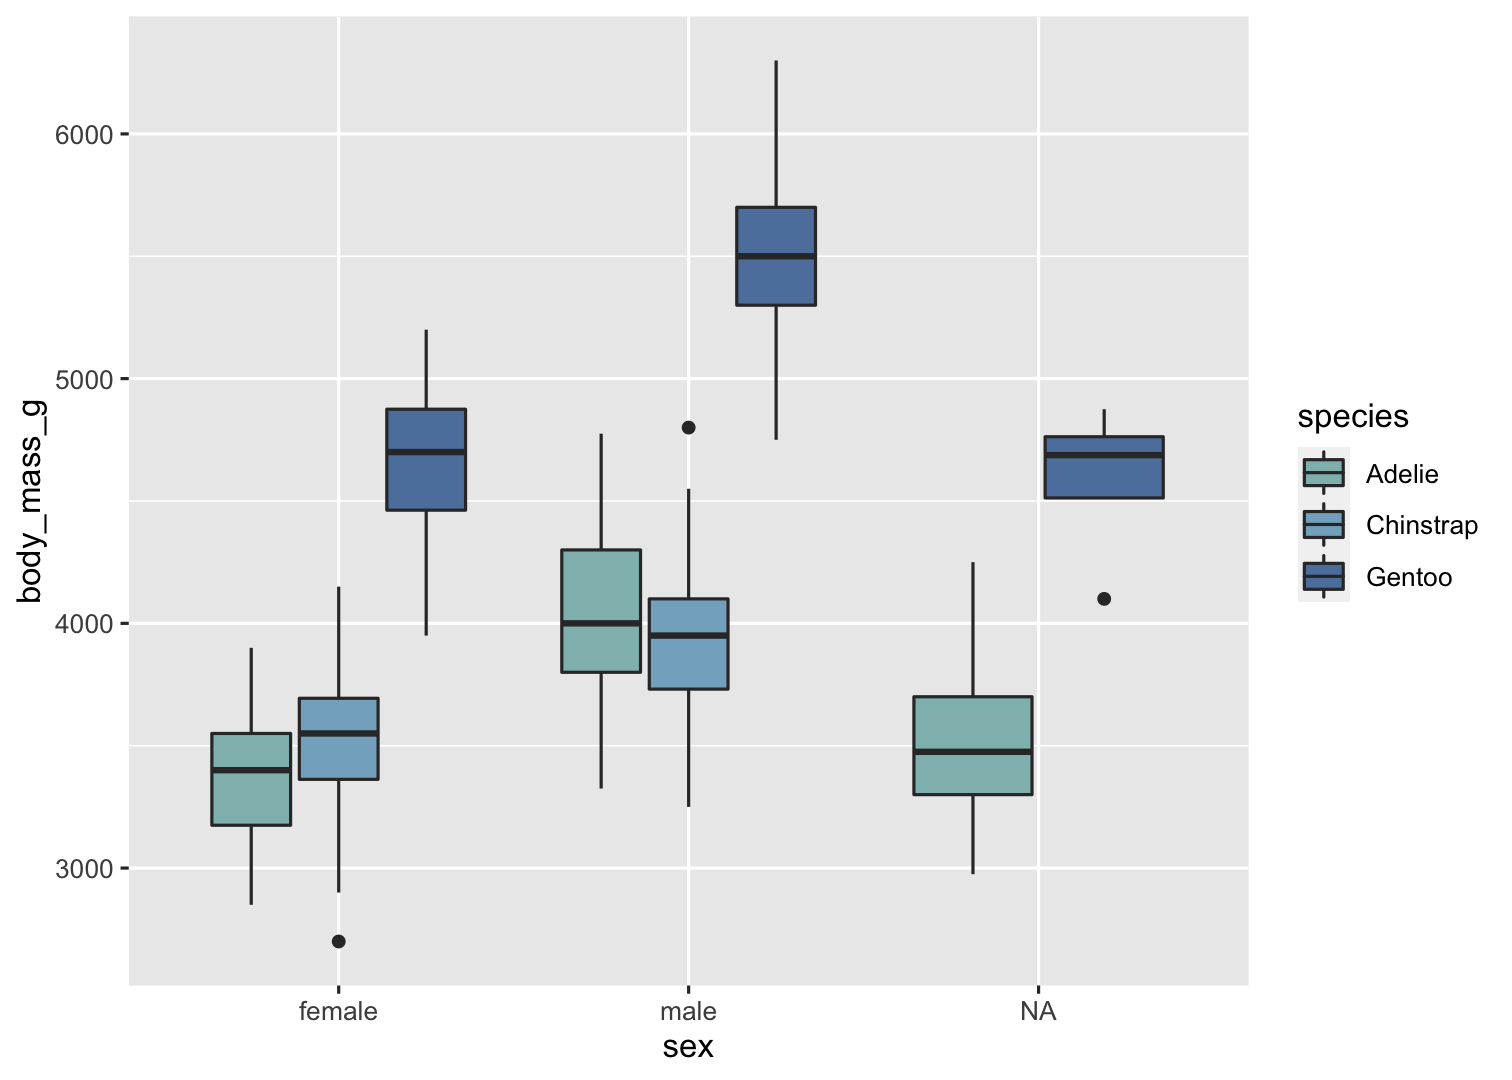
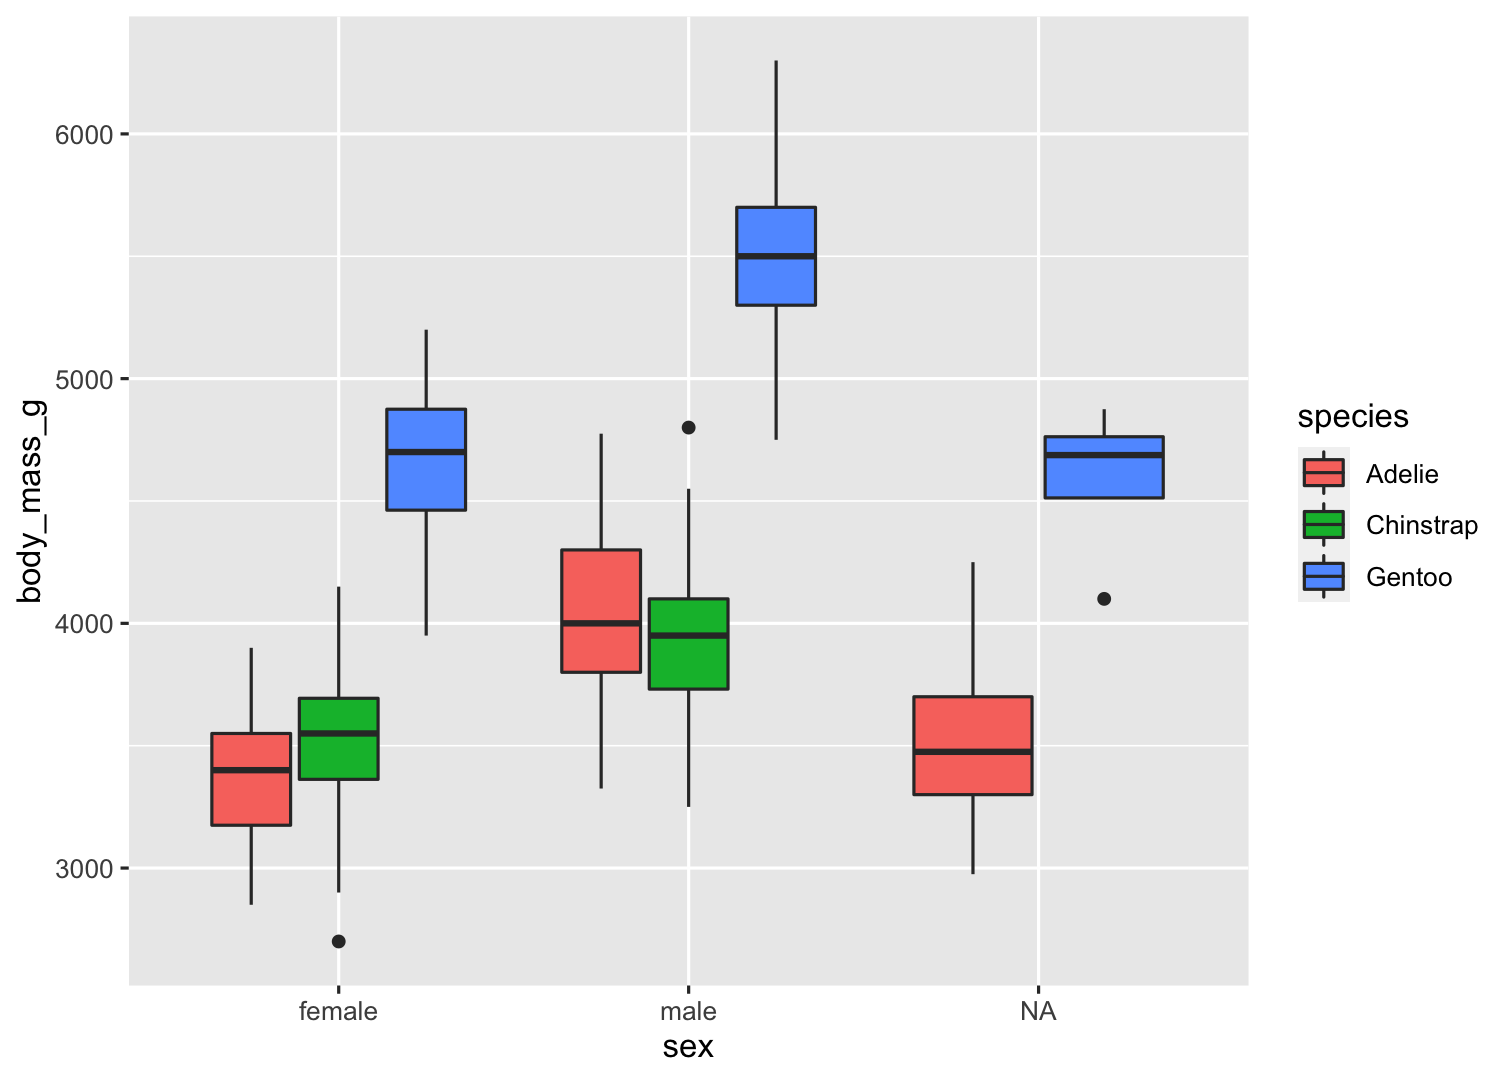
Add slides

diff --git a/slides/tour-of-the-tidyverse.html b/slides/tour-of-the-tidyverse.html
@@ -901,6 +901,13 @@ background-size: 80px
 # forcats: info
 
 .panelset[
+
+.panel[.panel-name[Overview]
+### Helps us work with **categorical variables** or factors. 
+
+### These are variables that have a fixed and known set of possible values, like `species`, `island`, and `sex` in our `penguins` dataset.
+]
+
 .panel[.panel-name[Cheatsheet]
 
 <i class="fas  fa-file-pdf "></i> PDF: https://github.com/rstudio/cheatsheets/raw/master/factors.pdf
@@ -926,22 +933,60 @@ background-size: 80px
 
 .panelset[
 .panel[.panel-name[Code]
+.pull-left[
+### Currently the `year` variable in `penguins` is continuous from 2007 to 2009.
 
+### There may be situations where this isn't what we want and we might want to turn it into a categorical variable instead.
+]
+
+.pull-right[
+
+### The `factor()` function is perfect for this.
 
 ```r
-penguins %&gt;% 
-  dplyr::n_distinct(species)
+penguins %&gt;%
+  mutate(year_factor = factor(year, levels = unique(year)))
 ```
 ]
 
-.panel[.panel-name[Result]
 
+]
+
+.panel[.panel-name[Result]
+### The result is a new factor `year_factor` with levels `2007`, `2008` and `2009`
+.pull-left[
 
 ```r
-penguins %&gt;% 
-  dplyr::n_distinct(species)
-## Error in FUN(X[[i]], ...): object 'species' not found
+penguins_new &lt;-
+  penguins %&gt;%
+  mutate(year_factor = factor(year, levels = unique(year)))
+penguins_new
+## # A tibble: 344 x 9
+##    species island    bill_length_mm bill_depth_mm flipper_length_mm body_mass_g sex     year year_factor
+##    &lt;fct&gt;   &lt;fct&gt;              &lt;dbl&gt;         &lt;dbl&gt;             &lt;int&gt;       &lt;int&gt; &lt;fct&gt;  &lt;int&gt; &lt;fct&gt;      
+##  1 Adelie  Torgersen           39.1          18.7               181        3750 male    2007 2007       
+##  2 Adelie  Torgersen           39.5          17.4               186        3800 female  2007 2007       
+##  3 Adelie  Torgersen           40.3          18                 195        3250 female  2007 2007       
+##  4 Adelie  Torgersen           NA            NA                  NA          NA &lt;NA&gt;    2007 2007       
+##  5 Adelie  Torgersen           36.7          19.3               193        3450 female  2007 2007       
+##  6 Adelie  Torgersen           39.3          20.6               190        3650 male    2007 2007       
+##  7 Adelie  Torgersen           38.9          17.8               181        3625 female  2007 2007       
+##  8 Adelie  Torgersen           39.2          19.6               195        4675 male    2007 2007       
+##  9 Adelie  Torgersen           34.1          18.1               193        3475 &lt;NA&gt;    2007 2007       
+## 10 Adelie  Torgersen           42            20.2               190        4250 &lt;NA&gt;    2007 2007       
+## # … with 334 more rows
 ```
+]
+
+.pull-right[
+
+```r
+class(penguins_new$year_factor)
+## [1] "factor"
+levels(penguins_new$year_factor)
+## [1] "2007" "2008" "2009"
+```
+]
 ]
 ]
 
@@ -1190,6 +1235,13 @@ background-size: 80px
 # purrr: info
 
 .panelset[
+
+.panel[.panel-name[Overview]
+### Provides tools for working with functions and vectors 
+
+### The `map()` family of functions helps us replace for loops, &lt;br/&gt; making our code easier to read and more succint.
+]
+
 .panel[.panel-name[Cheatsheet]
 
 <i class="fas  fa-file-pdf "></i> PDF: https://github.com/rstudio/cheatsheets/raw/master/purrr.pdf
@@ -1230,12 +1282,12 @@ background-size: 80px
 
 .pull-left[
 ### Let's turn this plot
-&lt;img src="tour-of-the-tidyverse_files/figure-html/unnamed-chunk-48-1.png" width="504" /&gt;
+&lt;img src="tour-of-the-tidyverse_files/figure-html/unnamed-chunk-49-1.png" width="504" /&gt;
 ]
 
 .pull-right[
 ### Into this one!
-&lt;img src="tour-of-the-tidyverse_files/figure-html/unnamed-chunk-49-1.png" width="504" /&gt;
+&lt;img src="tour-of-the-tidyverse_files/figure-html/unnamed-chunk-50-1.png" width="504" /&gt;
 
 .panel[.panel-name[Code]
 
@@ -1250,7 +1302,7 @@ library(nord)
 penguins %&gt;%
   ggplot(aes(x = sex, y = body_mass_g)) +
   geom_boxplot(aes(fill = species)) +
-  nord::scale_fill_nord(palette = "frost")
+  scale_fill_manual(values = nord::nord_palettes$frost)
 ```
 ]
 
@@ -1264,11 +1316,14 @@ nord::nord_palettes$frost
 
 
 ```r
-# but you might prefer to use `scale_fill_manual()`
+# but you might prefer to use `scale_fill_manual()` 
+# or more specialized functions like `scale_fill_nord()` 
+# included in the {nord} package
 penguins %&gt;%
   ggplot(aes(x = sex, y = body_mass_g)) +
   geom_boxplot(aes(fill = species)) +
   scale_fill_manual(values = nord::nord_palettes$frost)
+  #scale_fill_nord(palette = "frost")
 ```
 ]
 ]
@@ -1280,12 +1335,13 @@ penguins %&gt;%
 penguins %&gt;%
   ggplot(aes(x = sex, y = body_mass_g)) +
   geom_boxplot(aes(fill = species)) +
-  scale_fill_manual(values = nord::nord_palettes$frost)
+  #scale_fill_manual(values = nord::nord_palettes$frost)
+  scale_fill_nord(palette = "frost")
 ```
 ]
 
 .pull-right[
-&lt;img src="tour-of-the-tidyverse_files/figure-html/unnamed-chunk-55-1.png" width="504" /&gt;
+&lt;img src="tour-of-the-tidyverse_files/figure-html/unnamed-chunk-56-1.png" width="504" /&gt;
 ]
 ]
 
@@ -1319,6 +1375,20 @@ nord::nord_palettes %&gt;% map(prismatic::color)
 ]
 ]
 ]
+
+.panel[.panel-name[More palettes!]
+
+.pull-left[
+### [r-color-palettes repo](https://github.com/EmilHvitfeldt/r-color-palettes) from Emil Hvitfeldt
+
+### Like this Wes Anderson themed one! And many, many others. 🤩
+]
+
+.pull-right[
+![](../slides/images/wesanderson_example.png)
+]
+]
+
 ]
 
 ---
